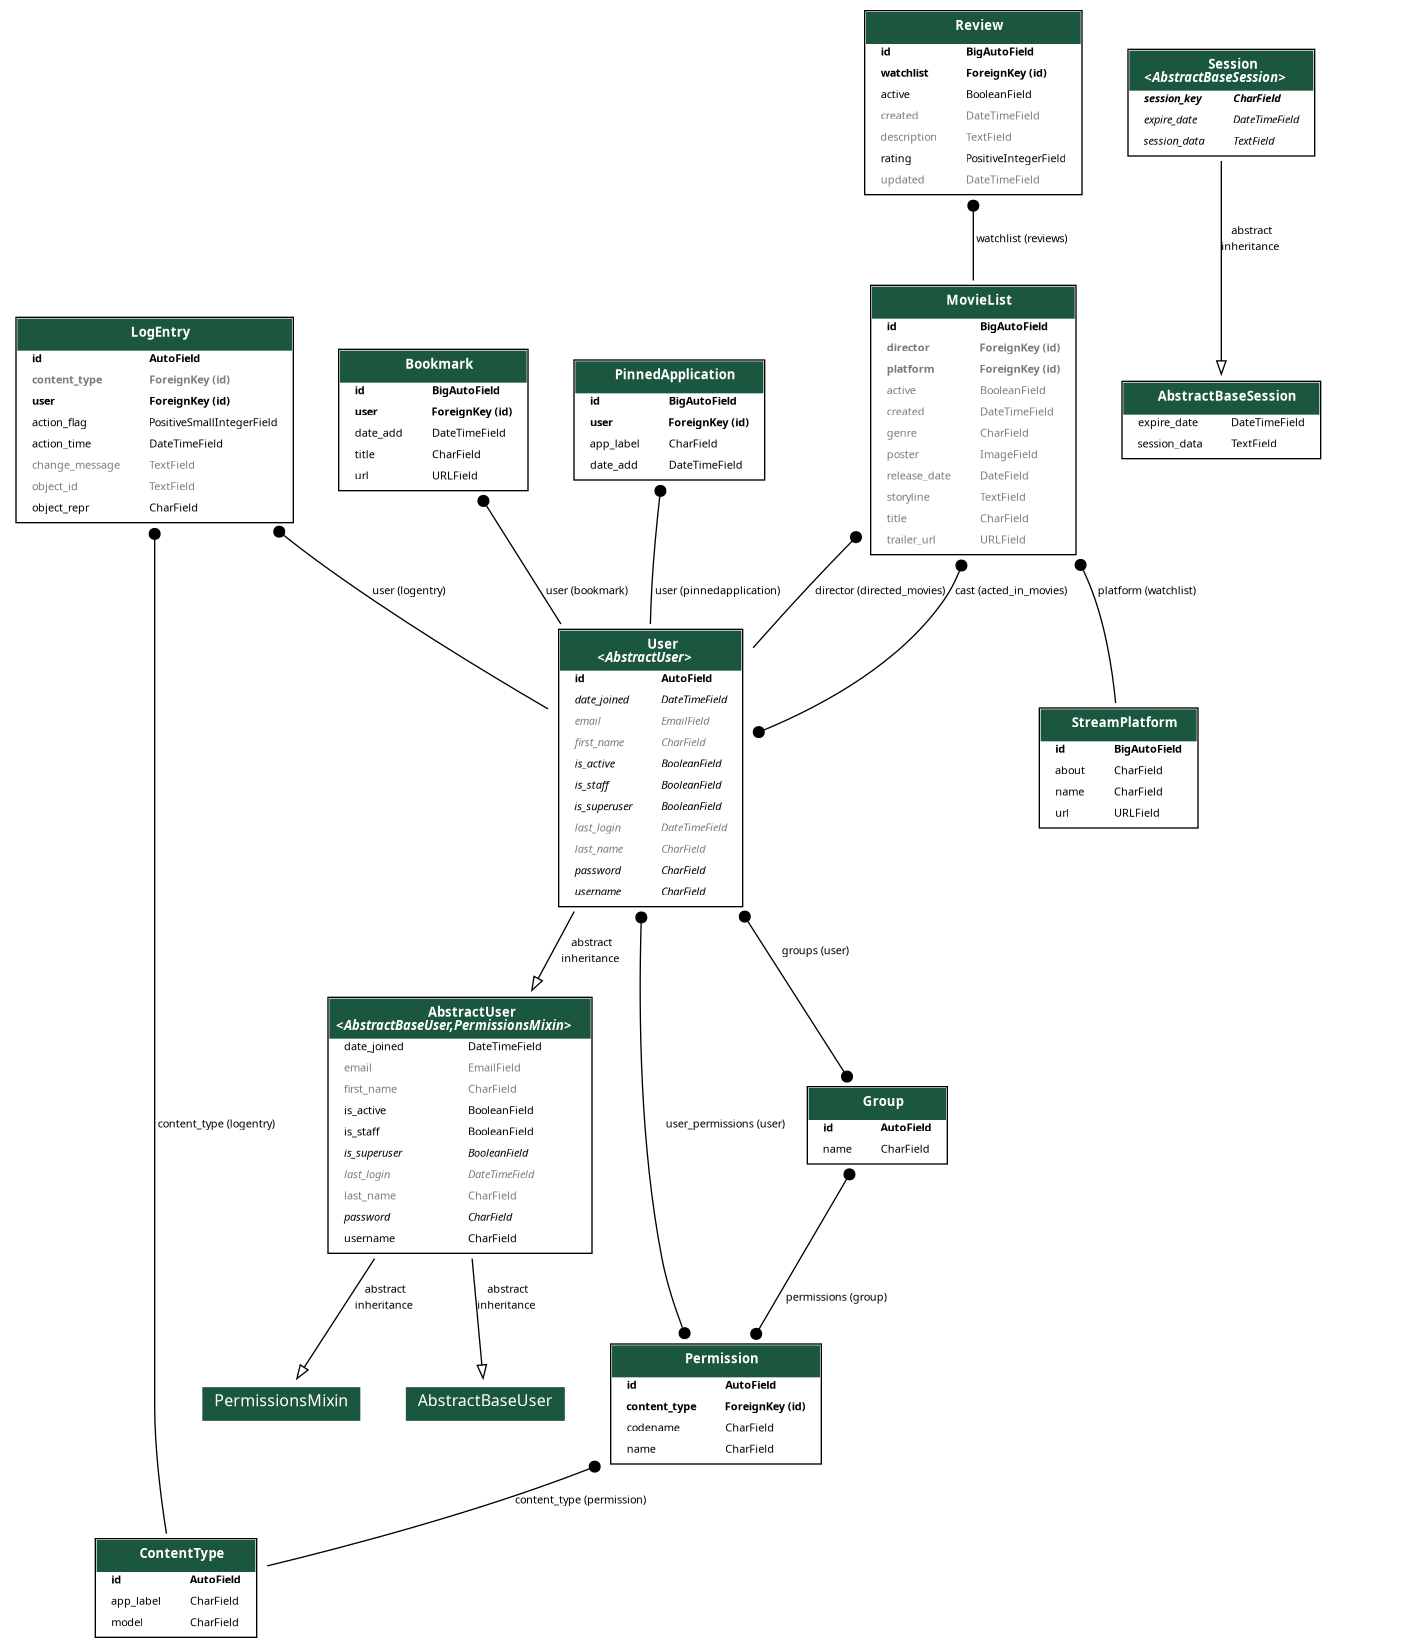
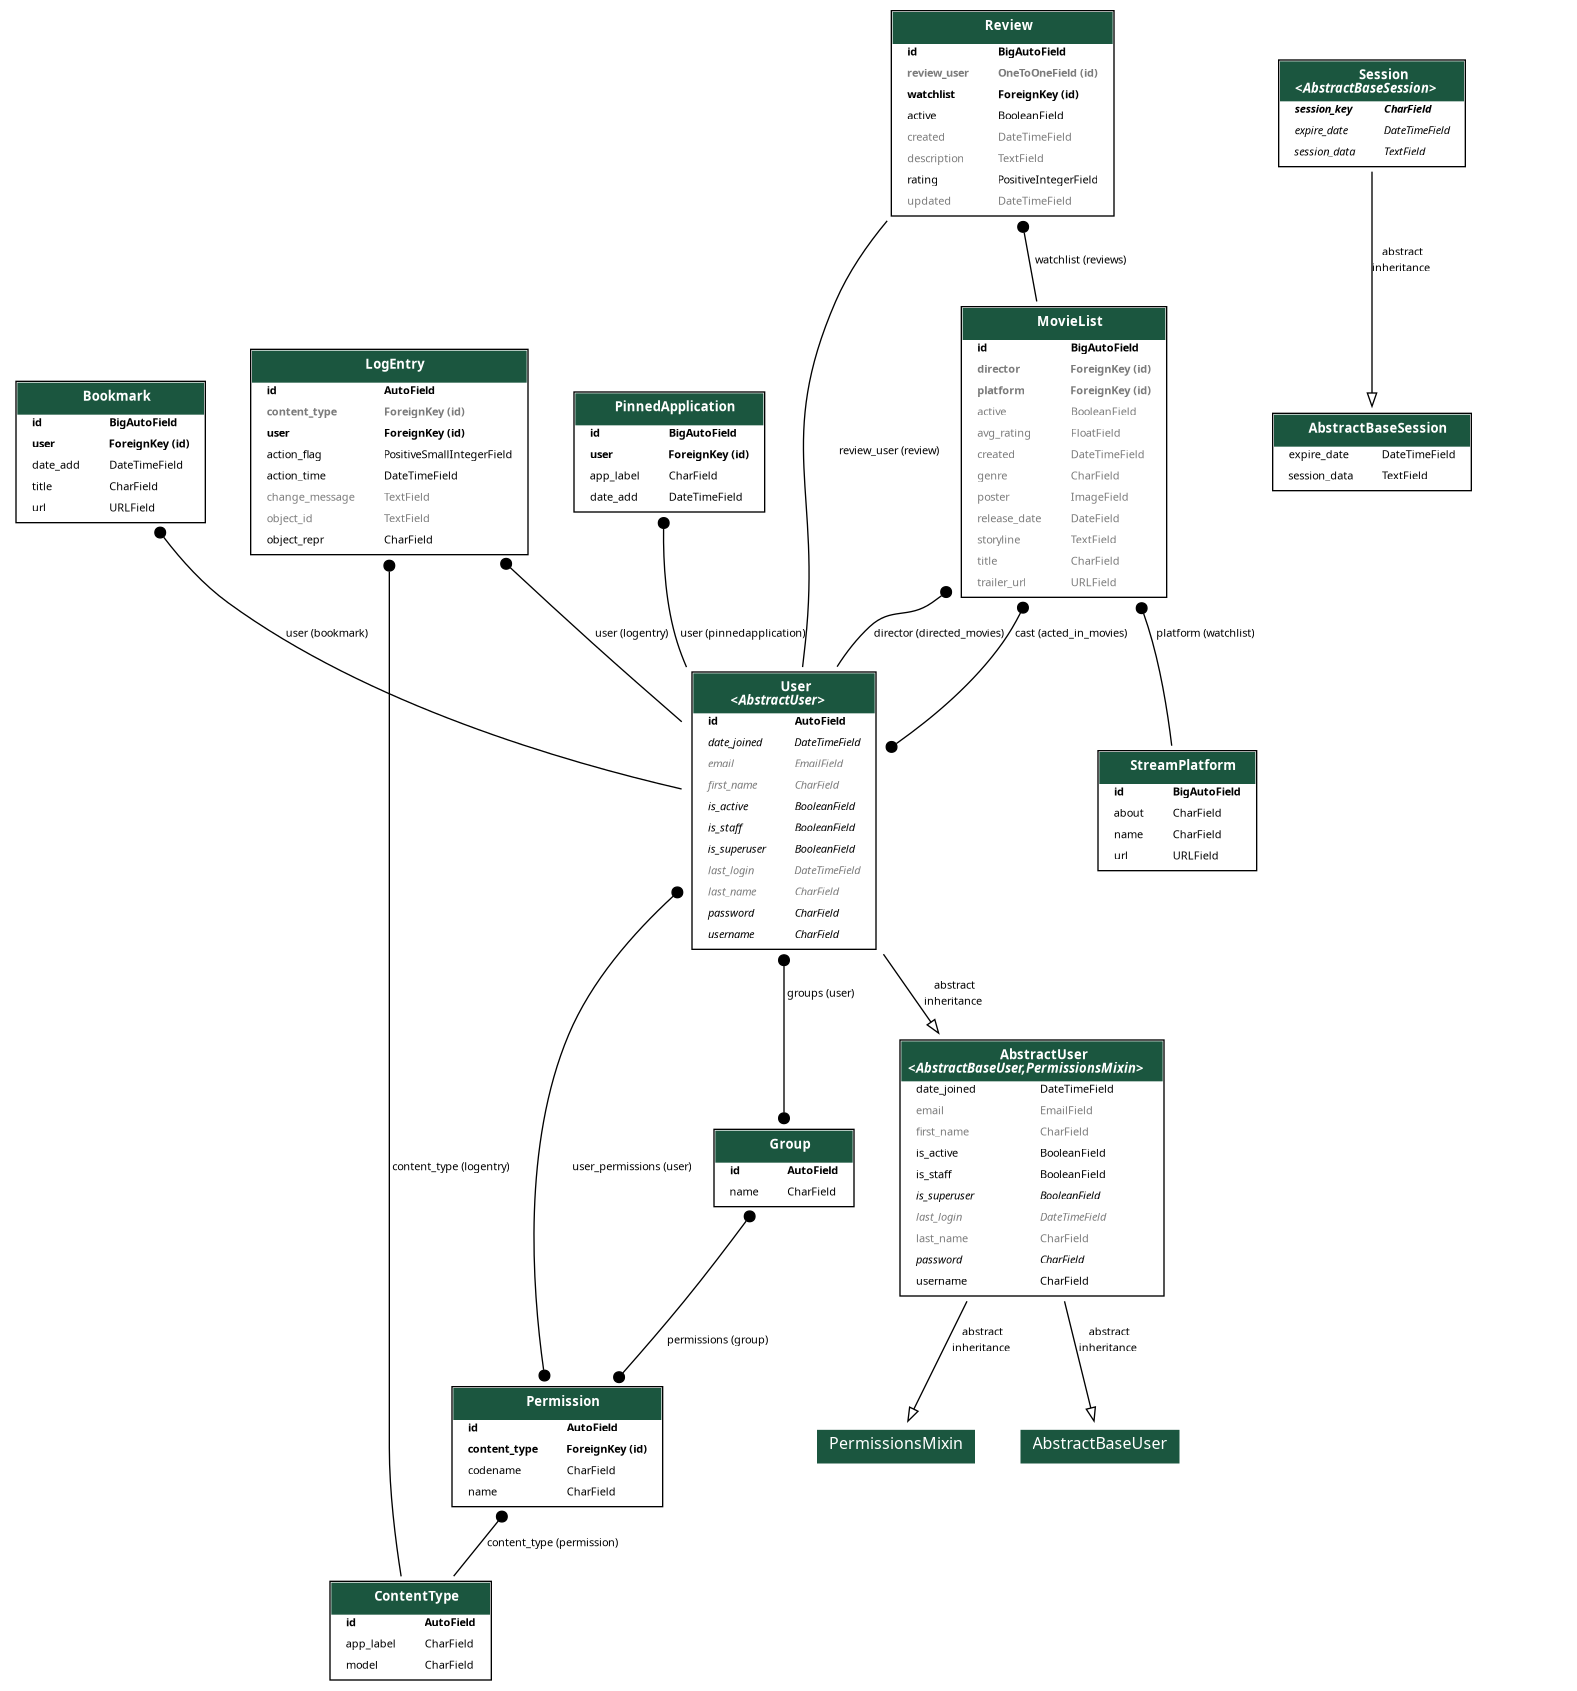
Permission is added and fixed permanently

diff --git a/movies/api/mixins/views.py b/movies/api/mixins/views.py
@@ -2,7 +2,6 @@ from rest_framework import generics
 from movies.models import Review, MovieList
 from movies.api.serializers import ReviewSerializer
 from rest_framework.validators import ValidationError
-from rest_framework.permissions import IsAuthenticated
 from movies.api import permissions
 
 
@@ -52,6 +51,16 @@ class ReviewCreate(generics.CreateAPIView):
 
         if review_queryset.exists():
             raise ValidationError('You have already reviewed this movie!')
+
+        if watchlist.number_rating == 0:
+            watchlist.avg_rating = serializer.validated_data['rating']
+        else:
+            watchlist.avg_rating = (
+                watchlist.avg_rating + watchlist.validated_data['rating']
+            ) / 2
+
+        watchlist.number_rating += 1
+        watchlist.save()
 
         serializer.save(
             watchlist=watchlist,

diff --git a/movies/models.py b/movies/models.py
@@ -66,6 +66,17 @@ class MovieList(models.Model):
         related_name='acted_in_movies',
         verbose_name=_('cast'),
     )
+    avg_rating = models.FloatField(
+        _('average rating'),
+        default=0,
+        blank=True,
+        null=True)
+    number_rating = models.IntegerField(
+        default=0,
+        blank=True,
+        null=True,
+        verbose_name=_('number of rating')
+    )
     created = models.DateTimeField(
         _('created'),
         auto_now_add=True,

diff --git a/movies/migrations/0012_movielist_number_rating.py b/movies/migrations/0012_movielist_number_rating.py
@@ -1,0 +1,18 @@
+# Generated by Django 4.2.5 on 2023-11-01 15:54
+
+from django.db import migrations, models
+
+
+class Migration(migrations.Migration):
+
+    dependencies = [
+        ('movies', '0011_movielist_avg_rating'),
+    ]
+
+    operations = [
+        migrations.AddField(
+            model_name='movielist',
+            name='number_rating',
+            field=models.IntegerField(blank=True, default=0, null=True, verbose_name='number of rating'),
+        ),
+    ]

diff --git a/movies/migrations/0011_movielist_avg_rating.py b/movies/migrations/0011_movielist_avg_rating.py
@@ -1,0 +1,18 @@
+# Generated by Django 4.2.5 on 2023-11-01 11:46
+
+from django.db import migrations, models
+
+
+class Migration(migrations.Migration):
+
+    dependencies = [
+        ('movies', '0010_review_review_user'),
+    ]
+
+    operations = [
+        migrations.AddField(
+            model_name='movielist',
+            name='avg_rating',
+            field=models.FloatField(blank=True, default=0, null=True, verbose_name='average rating'),
+        ),
+    ]
